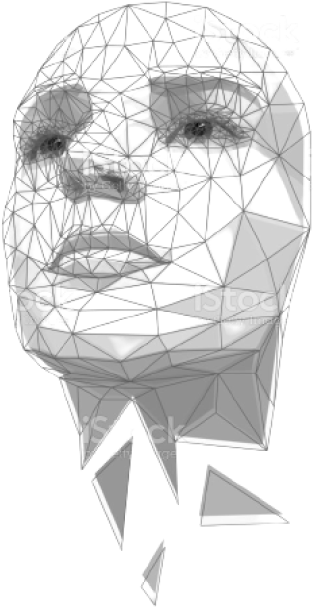
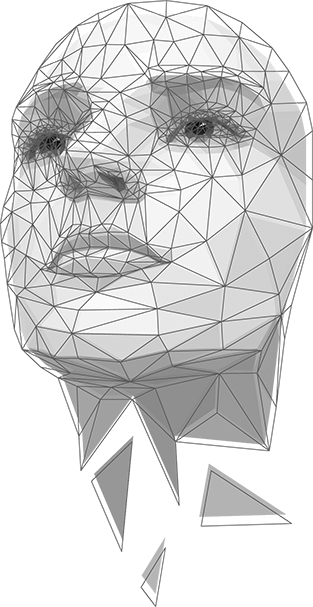
changed hero image

diff --git a/scss/sections/_hero.scss b/scss/sections/_hero.scss
@@ -103,6 +103,8 @@
         transform: translate(46%,-50%);
     }
     .abimage-csoz{
+        width: 313px;
+        height: 607px;
         position: absolute;
         top: 55%;
         left: -50%;

diff --git a/assets/css/main.css b/assets/css/main.css
@@ -11049,6 +11049,8 @@ textarea.form-control-lg {
   transform: translate(46%, -50%);
 }
 .box .abimage-csoz {
+  width: 313px;
+  height: 607px;
   position: absolute;
   top: 55%;
   left: -50%;
